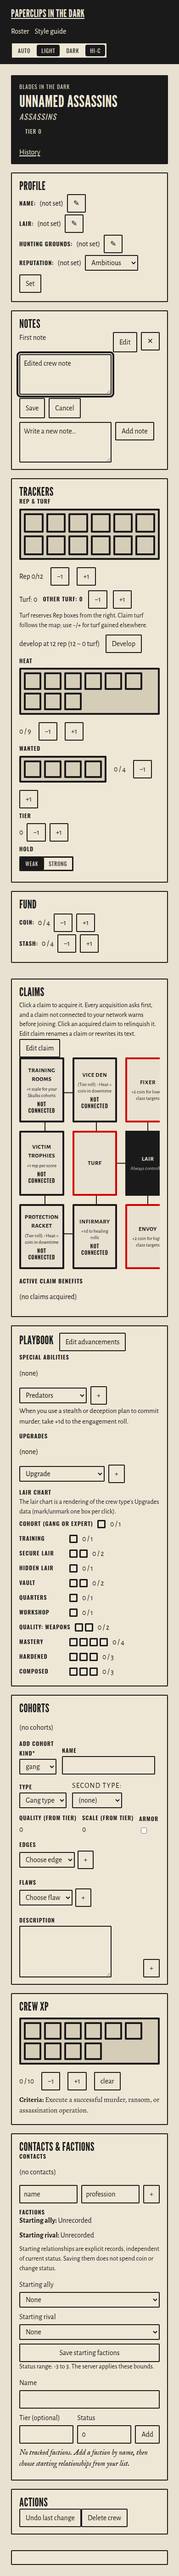
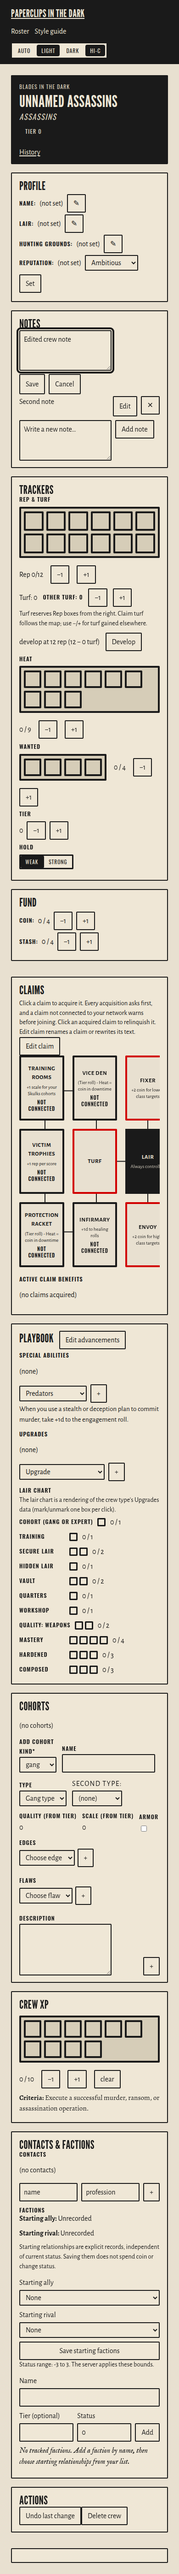
NOTES-EDIT-01: crew note labels 1-based (red-first); probe asserts crew Edit/Cancel touch targets; reviewAgent PASS

diff --git a/frontend/src/pages/crew-detail.test.ts b/frontend/src/pages/crew-detail.test.ts
@@ -2972,8 +2972,8 @@ describe("crew-detail page", () => {
       expect(entries[1]?.textContent).toContain("Second note");
       expect(root.querySelector('textarea[aria-label="New note"]')).not.toBeNull();
       expect(root.querySelector('button[title="Add note"]')).not.toBeNull();
-      expect(root.querySelector('button[title="Remove note 0"]')).not.toBeNull();
       expect(root.querySelector('button[title="Remove note 1"]')).not.toBeNull();
+      expect(root.querySelector('button[title="Remove note 2"]')).not.toBeNull();
     });
 
     it("adds a note via note.add and renders it", async () => {
@@ -3020,13 +3020,13 @@ describe("crew-detail page", () => {
       mountCrewDetailPage(root, CREW_ID);
 
       await vi.waitFor(() => {
-        expect(root.querySelector('button[title="Remove note 1"]')).not.toBeNull();
+        expect(root.querySelector('button[title="Remove note 2"]')).not.toBeNull();
       });
-      (root.querySelector('button[title="Remove note 1"]') as HTMLButtonElement).click();
+      (root.querySelector('button[title="Remove note 2"]') as HTMLButtonElement).click();
 
       await vi.waitFor(() => {
         expect(root.querySelectorAll(".note-list .note-entry").length).toBe(2);
-        expect(root.querySelector('button[title="Remove note 1"]')).not.toBeNull();
+        expect(root.querySelector('button[title="Remove note 2"]')).not.toBeNull();
       });
       expect(global.fetch).toHaveBeenCalledWith(
         `/api/crews/${CREW_ID}/ops/note.remove`,
@@ -3048,17 +3048,17 @@ describe("crew-detail page", () => {
       mountCrewDetailPage(root, CREW_ID);
 
       await vi.waitFor(() => {
-        expect(root.querySelector('button[title="Edit note 1"]')).not.toBeNull();
+        expect(root.querySelector('button[title="Edit note 2"]')).not.toBeNull();
       });
-      (root.querySelector('button[title="Edit note 1"]') as HTMLButtonElement).click();
+      (root.querySelector('button[title="Edit note 2"]') as HTMLButtonElement).click();
 
       await vi.waitFor(() => {
-        expect(root.querySelector('.crew-notes textarea[aria-label="Edit note 1"]')).not.toBeNull();
+        expect(root.querySelector('.crew-notes textarea[aria-label="Edit note 2"]')).not.toBeNull();
       });
-      const textarea = root.querySelector('.crew-notes textarea[aria-label="Edit note 1"]') as HTMLTextAreaElement;
+      const textarea = root.querySelector('.crew-notes textarea[aria-label="Edit note 2"]') as HTMLTextAreaElement;
       textarea.value = "Edited note";
       textarea.dispatchEvent(new Event("input"));
-      (root.querySelector('button[title="Save note 1"]') as HTMLButtonElement).click();
+      (root.querySelector('button[title="Save note 2"]') as HTMLButtonElement).click();
 
       await vi.waitFor(() => {
         expect(global.fetch).toHaveBeenCalledWith(
@@ -3067,7 +3067,7 @@ describe("crew-detail page", () => {
         );
       });
       await vi.waitFor(() => {
-        expect(root.querySelector('.crew-notes textarea[aria-label="Edit note 1"]')).toBeNull();
+        expect(root.querySelector('.crew-notes textarea[aria-label="Edit note 2"]')).toBeNull();
       });
     });
 
@@ -3082,16 +3082,16 @@ describe("crew-detail page", () => {
       mountCrewDetailPage(root, CREW_ID);
 
       await vi.waitFor(() => {
-        expect(root.querySelector('button[title="Edit note 0"]')).not.toBeNull();
+        expect(root.querySelector('button[title="Edit note 1"]')).not.toBeNull();
       });
-      (root.querySelector('button[title="Edit note 0"]') as HTMLButtonElement).click();
+      (root.querySelector('button[title="Edit note 1"]') as HTMLButtonElement).click();
       await vi.waitFor(() => {
-        expect(root.querySelector('.crew-notes textarea[aria-label="Edit note 0"]')).not.toBeNull();
+        expect(root.querySelector('.crew-notes textarea[aria-label="Edit note 1"]')).not.toBeNull();
       });
-      (root.querySelector('button[title="Cancel note 0 edit"]') as HTMLButtonElement).click();
+      (root.querySelector('button[title="Cancel note 1 edit"]') as HTMLButtonElement).click();
 
       await vi.waitFor(() => {
-        expect(root.querySelector('.crew-notes textarea[aria-label="Edit note 0"]')).toBeNull();
+        expect(root.querySelector('.crew-notes textarea[aria-label="Edit note 1"]')).toBeNull();
       });
       expect((global.fetch as Mock).mock.calls.some((c) => String(c[0]).endsWith("/ops/note.update"))).toBe(false);
     });
@@ -3785,9 +3785,9 @@ describe("FV-012 focus restoration", () => {
     (root.querySelector('button[title="Add note"]') as HTMLButtonElement).click();
 
     await vi.waitFor(() => {
-      expect(root.querySelector('button[aria-label="Remove note 0"]')).not.toBeNull();
+      expect(root.querySelector('button[aria-label="Remove note 1"]')).not.toBeNull();
     });
-    expect(document.activeElement).toBe(root.querySelector('button[aria-label="Remove note 0"]'));
+    expect(document.activeElement).toBe(root.querySelector('button[aria-label="Remove note 1"]'));
   });
 
   it("moves focus to the next note's remove button after deleting a middle note", async () => {
@@ -3800,14 +3800,14 @@ describe("FV-012 focus restoration", () => {
     await vi.waitFor(() => {
       expect(root.querySelectorAll('button[aria-label^="Remove note"]')).toHaveLength(3);
     });
-    const rm = root.querySelector('button[aria-label="Remove note 1"]') as HTMLButtonElement;
+    const rm = root.querySelector('button[aria-label="Remove note 2"]') as HTMLButtonElement;
     rm.focus();
     rm.click();
 
     await vi.waitFor(() => {
       expect(root.querySelectorAll('button[aria-label^="Remove note"]')).toHaveLength(2);
     });
-    expect(document.activeElement).toBe(root.querySelector('button[aria-label="Remove note 1"]'));
+    expect(document.activeElement).toBe(root.querySelector('button[aria-label="Remove note 2"]'));
   });
 
   it("moves focus to the saved field's Edit button after a profile save", async () => {

diff --git a/frontend/src/pages/crew-sections/notes.ts b/frontend/src/pages/crew-sections/notes.ts
@@ -14,7 +14,7 @@ export function renderCrewNotesSection(state: RenderState): HTMLElement {
   // legacy single-string values; conversion lives only in the import/repair
   // migration path).
   // Multi-line textarea + per-entry remove; add/remove go through
-  // note.add / note.remove (index-based removal, 0-based to match the op).
+  // note.add / note.remove (index-based removal). Labels are 1-based; op indexes are 0-based.
   const notesEntries = c.notes;
   const noteList = notesEntries.length > 0
     ? el(
@@ -28,8 +28,8 @@ export function renderCrewNotesSection(state: RenderState): HTMLElement {
             type: "button",
             className: "note-edit-control",
             disabled: state.anyLoading,
-            "aria-label": `Edit note ${idx}`,
-            title: `Edit note ${idx}`,
+            "aria-label": `Edit note ${idx + 1}`,
+            title: `Edit note ${idx + 1}`,
             "data-focus-aside": "true",
             "data-focus-key": `note-edit-${idx}`,
           }, "Edit");
@@ -37,8 +37,8 @@ export function renderCrewNotesSection(state: RenderState): HTMLElement {
           const removeBtn = el("button", {
             type: "button",
             disabled: state.anyLoading,
-            "aria-label": `Remove note ${idx}`,
-            title: `Remove note ${idx}`,
+            "aria-label": `Remove note ${idx + 1}`,
+            title: `Remove note ${idx + 1}`,
           }, "✕");
           removeBtn.addEventListener("click", () => handlers.onNoteRemove(idx));
           return el(
@@ -88,7 +88,7 @@ function renderCrewNoteEditor(
 ): HTMLElement {
   const { handlers } = state;
   const area = el("textarea", {
-    "aria-label": `Edit note ${idx}`,
+    "aria-label": `Edit note ${idx + 1}`,
     rows: 3,
     disabled: state.anyLoading,
   }) as HTMLTextAreaElement;
@@ -96,7 +96,7 @@ function renderCrewNoteEditor(
   const save = el("button", {
     type: "button",
     className: "note-edit-control",
-    title: `Save note ${idx}`,
+    title: `Save note ${idx + 1}`,
     disabled: state.anyLoading || area.value.trim() === "",
   }, "Save");
   area.addEventListener("input", () => {
@@ -107,7 +107,7 @@ function renderCrewNoteEditor(
   const cancel = el("button", {
     type: "button",
     className: "note-edit-control",
-    title: `Cancel note ${idx} edit`,
+    title: `Cancel note ${idx + 1} edit`,
     disabled: state.anyLoading,
   }, "Cancel");
   cancel.addEventListener("click", () => handlers.onNoteEditCancel());

diff --git a/tasks/NOTES-EDIT-01.md b/tasks/NOTES-EDIT-01.md
@@ -3,7 +3,7 @@
 Status: implemented; Sol 6.1 xhigh round 1 verdict PASS (see tasks/metrics/frontend/NOTES-EDIT-01-sol-verdict.txt).
 
 ## Outcome
-- Users can edit an existing note on the Crew sheet and the Scoundrel sheet. Edit opens a textarea. Save and Cancel are 44px touch targets on the character sheet; the probe asserts crew Save. Save is disabled when the trimmed text is empty.
+- Users can edit an existing note on the Crew sheet and the Scoundrel sheet. Edit opens a textarea. Save and Cancel are 44px touch targets on the character sheet. The probe asserts Edit, Save and Cancel at 44px on both sheets. Crew labels (Edit, Save, Cancel, Remove) are 1-based like the character sheet; op indexes stay 0-based. Save is disabled when the trimmed text is empty.
 - Contract: additive `note.update {index, text}` for characters and crews (0-based index; NOT_FOUND out of range; VALIDATION on empty text). Both are snapshotted, so undo restores the prior text. Retired characters may still edit notes (lifecycle rule).
 - Shared focus fix: `frontend/src/lib/focus.ts` skips `data-focus-aside` controls, so the new Edit buttons do not shift the FV-012 focus ordinal.
 
@@ -20,7 +20,6 @@ Two unmanaged conformance runs defaulted to `http://localhost:9657`. This is not
 - Unpinned failure path: a failed or stale save must keep the editor open. Code is correct (character `runCharacterMutate` clearLoading, crew `afterSuccess` only on success); no test pins it.
 - Dead class `note-editing` in both `notes.ts` renderers; no rule or selector uses it.
 - Character Edit buttons use title only; the crew uses `aria-label="Edit note N"`. Matching the crew would help screen readers.
-- Probe does not assert crew Edit or crew Cancel touch sizes.
 - Mutation campaign (28/28) is the standing MUT-02 set; no mutant targets `note.update` or the focus exclusion.
 
 ## Remaining
